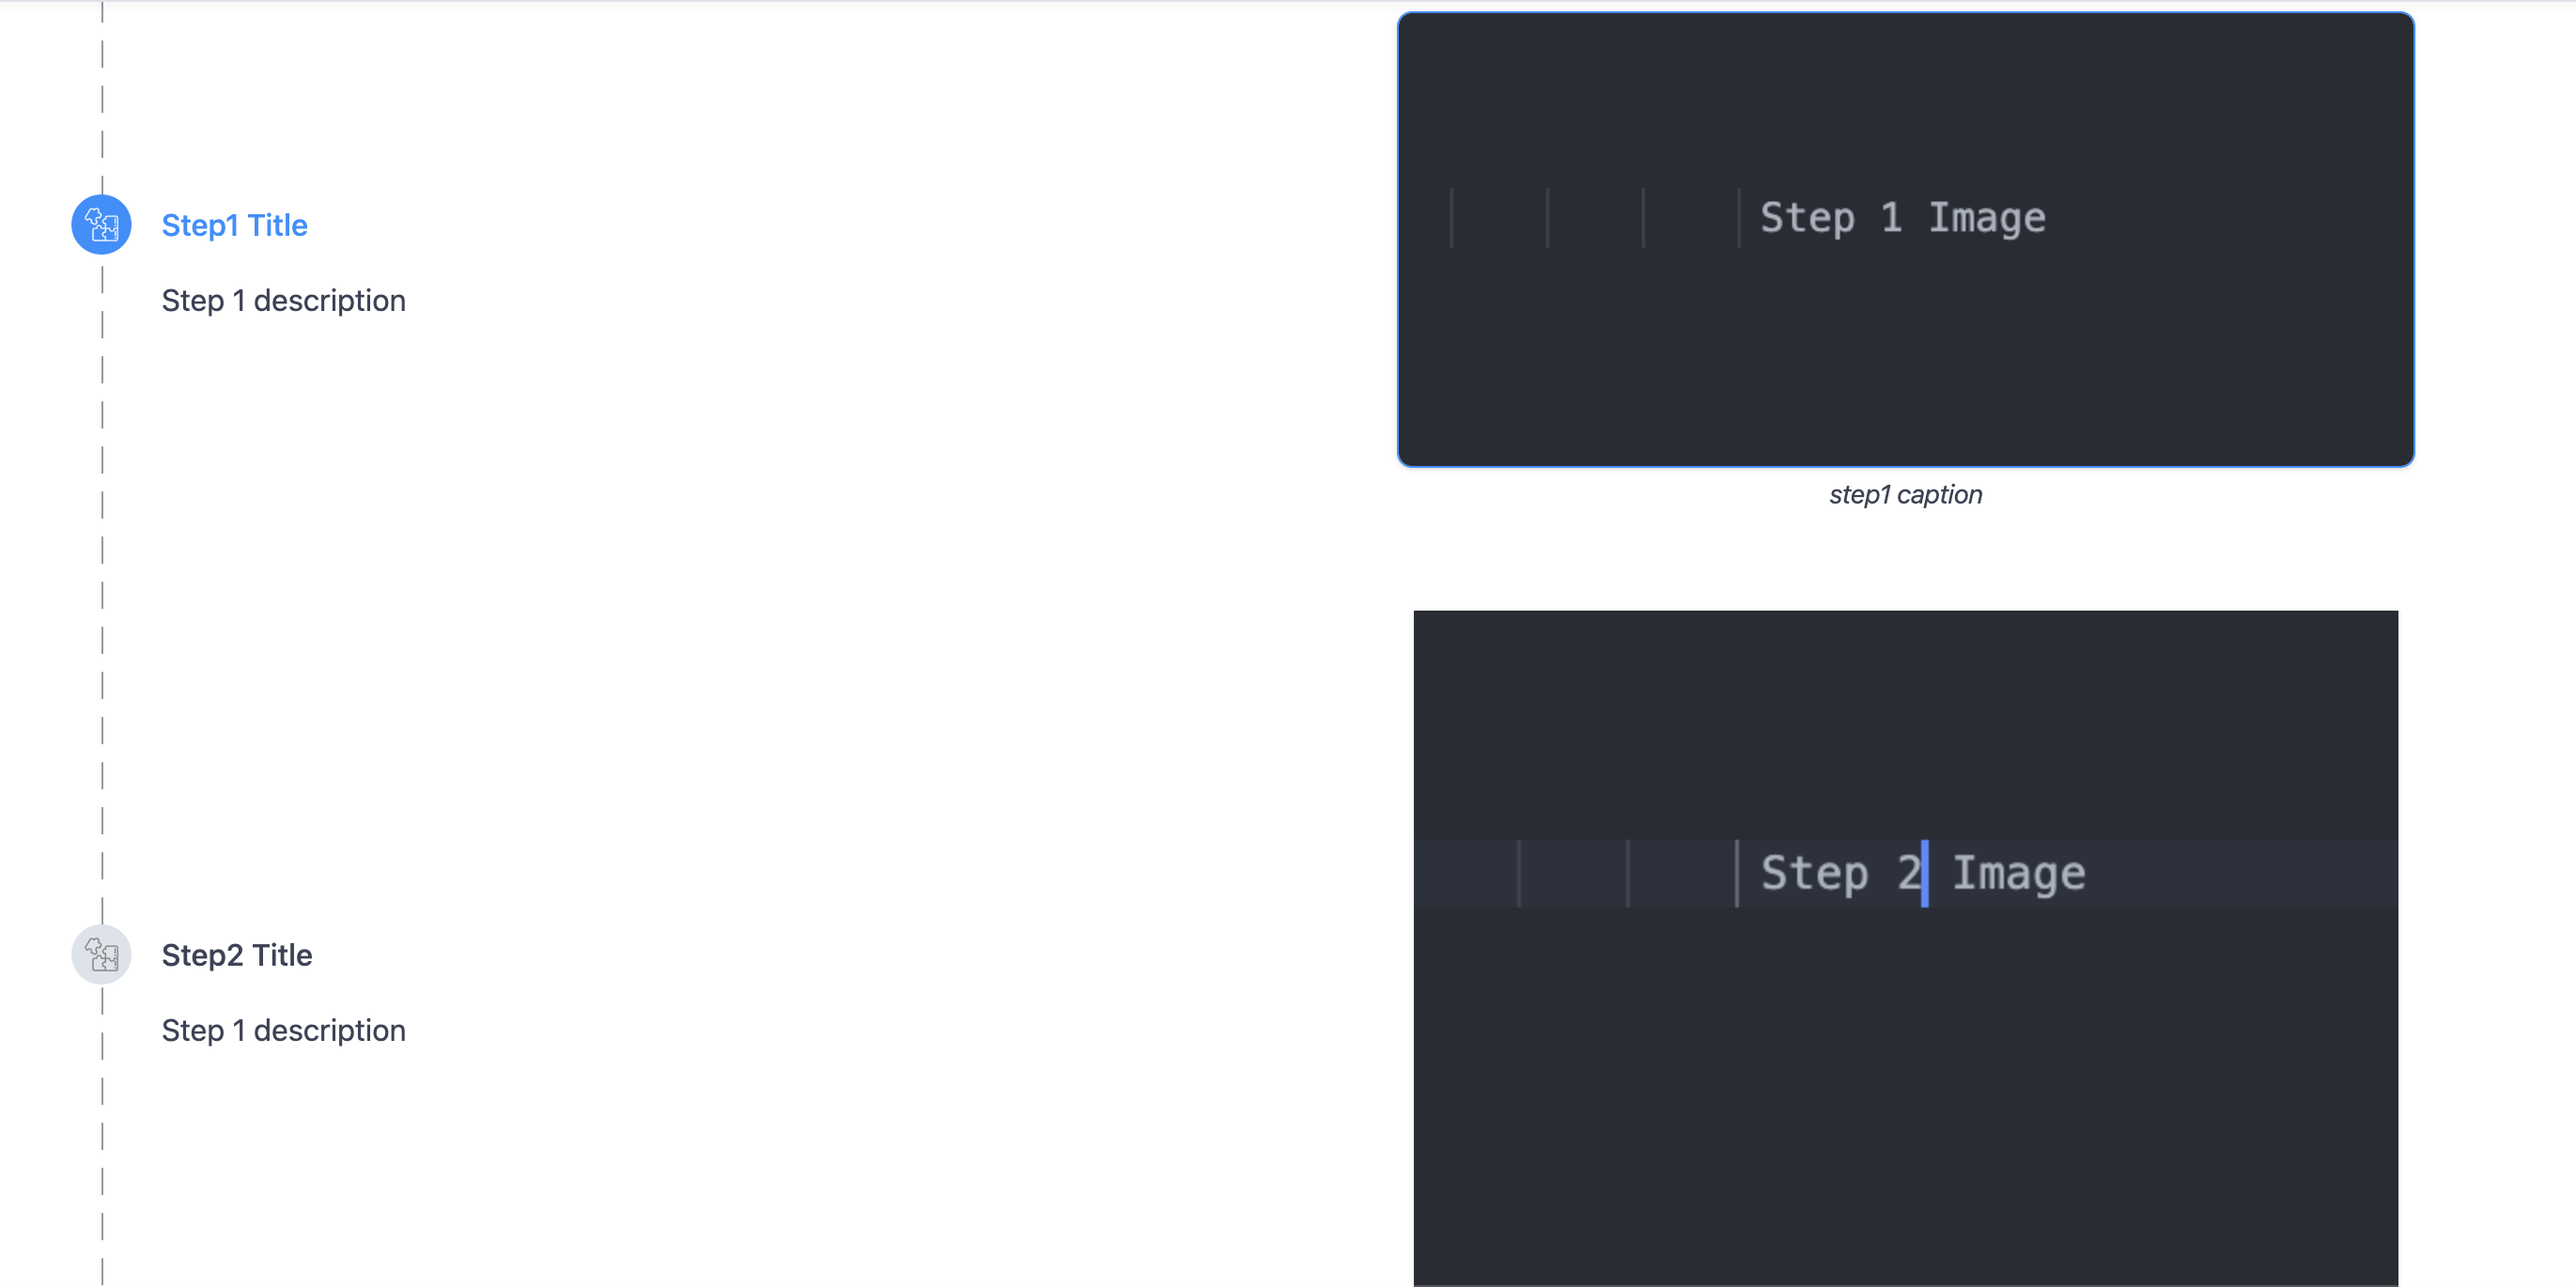
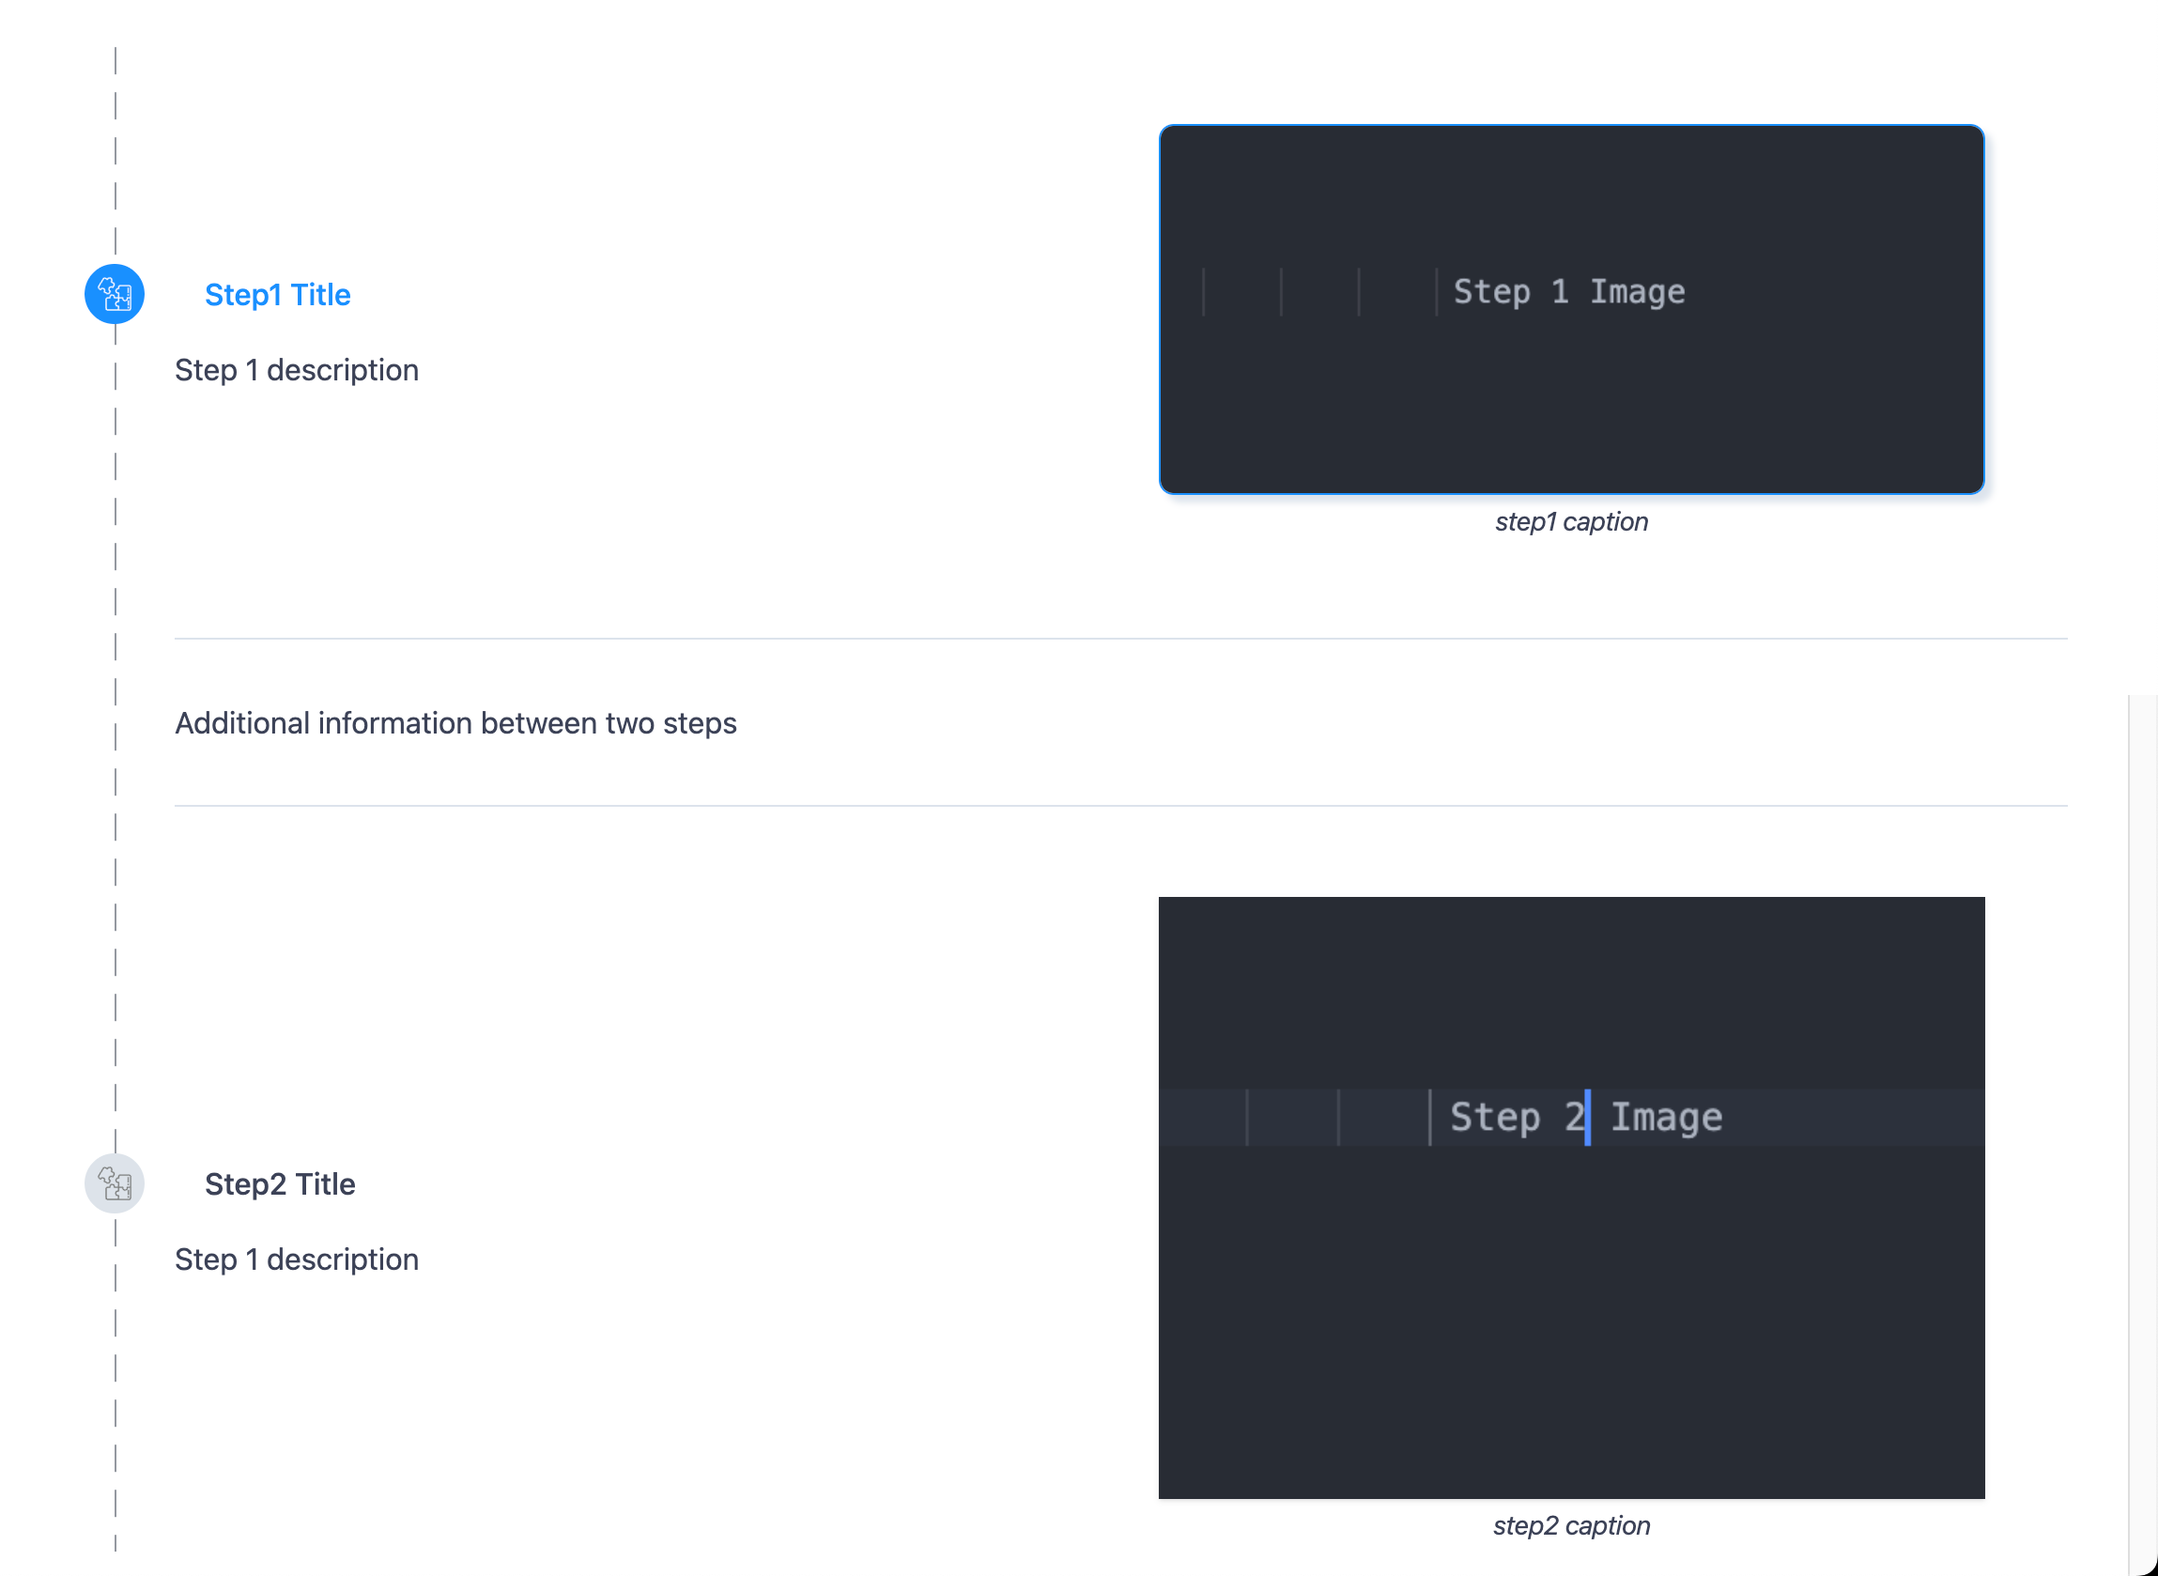
Updated README content with added tag information

diff --git a/README.md b/README.md
@@ -4,7 +4,7 @@ To add content to the docs use markdown files. Some custom markdoc tags are list
 
 ### How to use markdoc tags ?
 
-Similar to the normal react components custom tags can be used as follow
+Similar to the normal react components, custom tags can be used as follows
 Example: Here's how to use tag named 'exampleTag' with some attributes
 
 ```
@@ -128,6 +128,10 @@ For defining title use 'title' attribute. Add other information between opening 
 Use this tag to show images, videos, GIFs or CodeBlocks to provide additional information for the step.
 Add the tags for images, videos, GIFs or CodeBlocks between opening and closing tags.
 
+### 5. extraContent
+
+Tag to add some extra information in between two steps. Add it in between two `step` tags.
+
 Example:
 
 {% stepsContainer %}
@@ -150,6 +154,12 @@ caption="step1 caption" /%}
 {% /stepVisualInfo %}
 
 {% /step %}
+
+{% extraContent %}
+
+Additional information between two steps
+
+{% /extraContent %}
 
 {% step srNumber=2 %}
 
